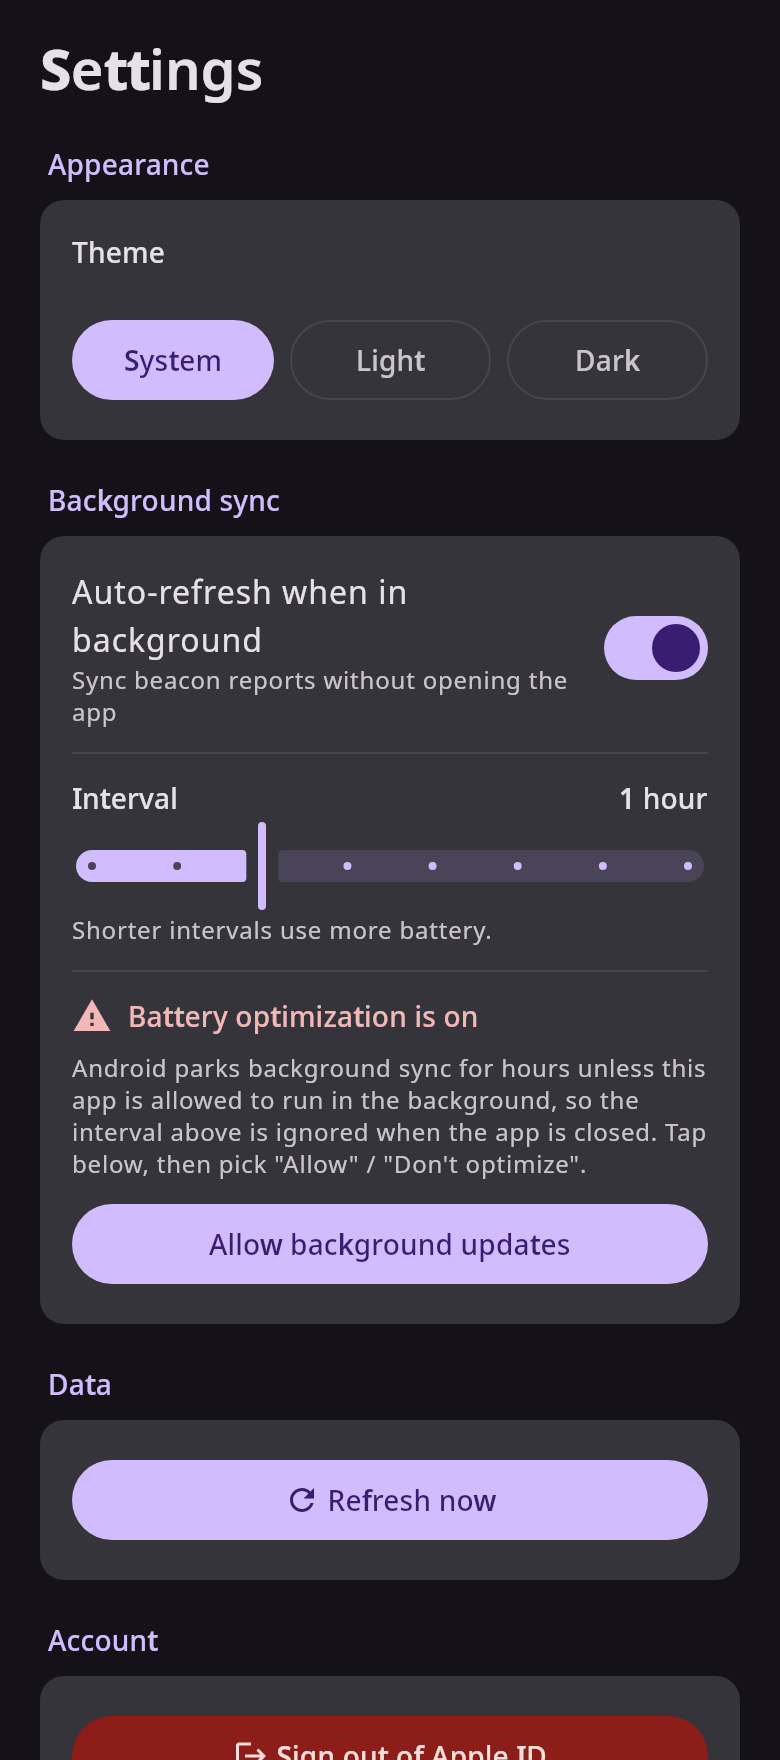
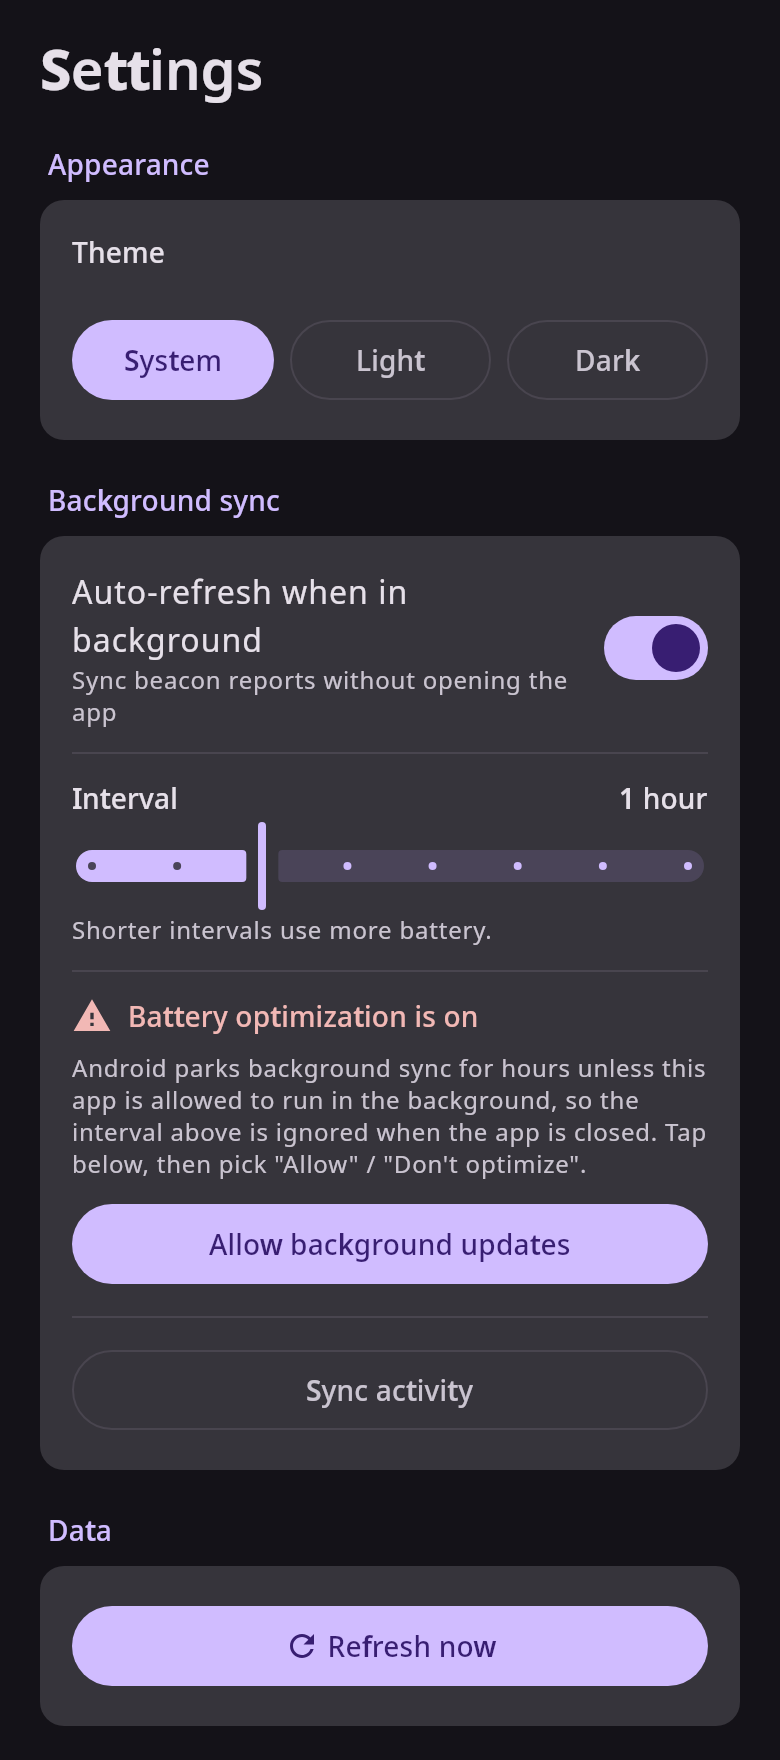
viewbook: draw the loading states that are visible now, add sync activity
History's Loading state now reads "Loading…" instead of the Empty sheet, and a
map tag mid-fetch reads "Locating…", so both are drawn instead of marked as
not drawable. History Loading is held with an IO dispatcher that never runs;
Map Loading with a fetch that never answers. Map Failed stays not drawable, its
error is still a snackbar outside the screen.

Settings is rendered with its Sync activity button, and the Sync activity
screen joins the book with and without recorded runs.

Changed region(s): [[0.0308, 0.75, 0.9538, 1.0]]

diff --git a/composeApp/src/desktopMain/kotlin/dev/wander/android/opentagviewer/gallery/Gallery.kt b/composeApp/src/desktopMain/kotlin/dev/wander/android/opentagviewer/gallery/Gallery.kt
@@ -6,6 +6,10 @@ import com.russhwolf.settings.PropertiesSettings
 import io.github.tieo.taghistory.data.model.BeaconData
 import io.github.tieo.taghistory.data.model.BeaconLocationReport
 import io.github.tieo.taghistory.data.repo.BeaconRepository
+import io.github.tieo.taghistory.data.repo.SyncTrigger
+import io.github.tieo.taghistory.data.repo.SyncOutcome
+import io.github.tieo.taghistory.data.repo.SyncRun
+import io.github.tieo.taghistory.ui.sync.SyncActivityScreen
 import io.github.tieo.taghistory.data.repo.UserAuthRepository
 import io.github.tieo.taghistory.data.repo.UserDataRepository
 import io.github.tieo.taghistory.data.repo.UserSettingsRepository
@@ -86,6 +90,11 @@ private fun authRepo(): UserAuthRepository =
 
 private fun galleryScope() = CoroutineScope(Dispatchers.Unconfined + SupervisorJob())
 
+/** Drops every task: work sent here never runs, which holds a screen in its loading phase. */
+private object NeverDispatcher : kotlinx.coroutines.CoroutineDispatcher() {
+    override fun dispatch(context: kotlin.coroutines.CoroutineContext, block: Runnable) = Unit
+}
+
 /** Build a MapViewModel over a freshly-seeded DB and let its boot+refresh settle. */
 private fun mapVm(
     seed: TagHistoryDatabase.() -> Unit,
@@ -129,20 +138,19 @@ private fun sampleDay(): List<BeaconLocationReport> {
 
 private fun historyVm(
     seed: TagHistoryDatabase.() -> Unit = {},
-    fetchRange: suspend (String, Long, Long) -> List<BeaconLocationReport> = { _, _, _ -> emptyList() },
-    fetch: Boolean = false,
+    ioDispatcher: kotlinx.coroutines.CoroutineDispatcher = Dispatchers.Default,
 ): HistoryViewModel {
     val db = newDb().apply { seedBeacon("a", "Car Keys", "🔑"); seed() }
     val vm = HistoryViewModel(
         beaconRepo = BeaconRepository(db) { 1_000L },
         beaconId = "a",
-        fetchRange = fetchRange,
         scope = galleryScope(),
+        ioDispatcher = ioDispatcher,
         nowMs = { nowMs },
     )
-    // load() reads what is already cached; fetchAndLoad() runs the network path
-    // (used only to show the loading state via a fetch that never returns).
-    if (fetch) vm.fetchAndLoad(hoursAgo(24), nowMs) else vm.load(hoursAgo(24), nowMs)
+    // The screen triggers its own load when it appears; this only warms the
+    // state so the first rendered frame already has the data.
+    vm.load(0L, Long.MAX_VALUE)
     runBlocking { delay(120) }
     return vm
 }
@@ -199,11 +207,20 @@ private val SCENES: List<Scene> = buildList {
         )
     })
     add(Scene("map", "empty") { MapScreen(viewModel = mapVm(seed = {})) })
-    // Map Loading and Failed are not drawn: their only difference from "as it
-    // is" lives in the native map layer (a desktop stub here) and in a snackbar
-    // (hosted outside the screen), so on this renderer all three are the same
-    // picture. The app could surface them in-screen (a loading skeleton, an
-    // inline error) to make them visible; until then they are not modelled.
+    // Tags known but not located yet, with their first fetch still running:
+    // each card reads "Locating…" until the fetch answers.
+    add(Scene("map", "loading") {
+        MapScreen(
+            viewModel = mapVm(
+                seed = {
+                    seedBeacon("a", "Car Keys", "🔑"); seedBeacon("b", "Backpack", "🎒"); seedBeacon("c", "Bike", "🚲")
+                },
+                fetchReports = { _, _ -> kotlinx.coroutines.awaitCancellation() },
+            ),
+        )
+    })
+    // Map Failed is not drawn: the error is a snackbar hosted outside the
+    // screen, so the picture is the same as the one before the failure.
 
     // ── Manage tags ───────────────────────────────────────────────────────────
     add(Scene("manage-tags", "as-it-is") {
@@ -228,10 +245,29 @@ private val SCENES: List<Scene> = buildList {
                 scope = galleryScope(),
             ).also { runBlocking { delay(60) } },
             onOpenInformation = {},
+            onOpenSyncActivity = {},
             onRefreshNow = { "Refreshed 3 tags" },
             isIgnoringBatteryOptimizations = { false },
             requestIgnoreBatteryOptimizations = {},
         )
+    })
+
+    // ── Sync activity ──────────────────────────────────────────────────────────
+    add(Scene("sync-activity", "as-it-is") {
+        val m = 60_000L
+        SyncActivityScreen(
+            runs = listOf(
+                SyncRun(nowMs - 20 * m, SyncTrigger.ALARM, SyncOutcome.SUCCESS, null, 21, 13, 2, 25_300),
+                SyncRun(nowMs - 45 * m, SyncTrigger.WORKER, SyncOutcome.SKIPPED, "throttled: 12m since last run", 0, 0, null, 40),
+                SyncRun(nowMs - 80 * m, SyncTrigger.WORKER, SyncOutcome.RETRY, "UnknownHostException: Unable to resolve host", 0, 0, 2, 1_900),
+                SyncRun(nowMs - 140 * m, SyncTrigger.ALARM, SyncOutcome.SUCCESS, null, 9, 4, 3, 18_700),
+            ),
+            onBack = {},
+            nowMs = nowMs,
+        )
+    })
+    add(Scene("sync-activity", "empty") {
+        SyncActivityScreen(runs = emptyList(), onBack = {}, nowMs = nowMs)
     })
 
     // ── Information ────────────────────────────────────────────────────────────
@@ -248,10 +284,10 @@ private val SCENES: List<Scene> = buildList {
             title = "Car Keys 🔑", onBack = {},
         )
     })
-    // History Loading is not drawn: while it loads it shows the same "No data"
-    // sheet as Empty with only a small spinner added, so the two are one
-    // picture here. (That "No data" mid-load is itself worth fixing in the app,
-    // it reads as "nothing" before the fetch has answered.)
+    // Before the first read lands the header says "Loading…", not "No data".
+    add(Scene("history", "loading") {
+        HistoryScreen(viewModel = historyVm(ioDispatcher = NeverDispatcher), title = "Car Keys 🔑", onBack = {})
+    })
     add(Scene("history", "empty") {
         HistoryScreen(viewModel = historyVm(), title = "Car Keys 🔑", onBack = {})
     })
